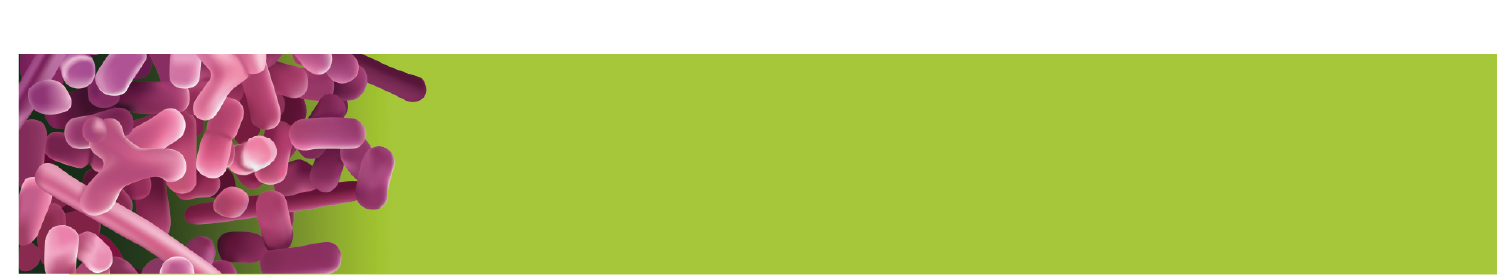
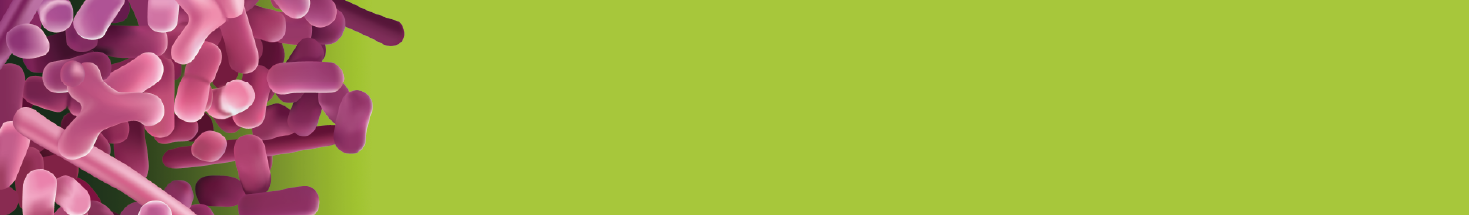
text centered on img - dobro je znati

diff --git a/css/styles.css b/css/styles.css
@@ -430,6 +430,7 @@ footer p {
 
 #pecat {
     width: 32%;
+    height: auto;
     position: absolute;
     left: 60%;
     top: 65%;
@@ -441,21 +442,47 @@ footer p {
 }
 
 #gradient-antibiotici {
-    width: 105%;
+    position: relative;
+    width: 100%;
     height: auto;
+
     /*border: 1px solid black;*/
-    margin-left: -20px;
+  /*  margin-left: -20px;*/
    /* margin-right: -10px;*/
-    margin-top: -30px;
+   /* margin-top: -30px;*/
+}
+.gtn {
+   /* position: relative;
+    border: 3px solid green;
+    height: 100px;
+    background-image: url(src="../images/gradient-antibiotici.png") ;*/
+  /*  height: 100px;
+    background: url(src="../images/gradient-antibiotici.png") center center no-repeat;*/
+/*    width: 100%;*/
+   
+
 }
 
 #dobro-je-znati {
+ 
+
     position: absolute;
-    top: -5%;
+    top: 50%;
+    left: 50%;
+    transform: translate(-50%, -50%);
     color: white;
+ /*   display: block;*/
     width: 100%;
+    height: auto;
+    padding: auto;
+    margin: auto;
     text-align: center;
-    /*font-size: 25px;*/
+   /* border: 1px solid red;*/
+    /*font-size: 5.9vw;*/
+  /*  display: block;*/
+  /*  margin: auto;*/
+    /*width: 100%;
+*/    /*font-size: 25px;*/
 }
 
 #linex-forte-packshot-kalendar{
@@ -499,10 +526,13 @@ footer p {
 }
 
 .blue {
+    border: 2px solid red;
     background-image: linear-gradient(to right, #3FBBE7 , #2E4694);
     color: white;
     font-size: 20px;
-    margin: 5px auto 15px auto;
+    padding: 15px auto 15px auto;
+    line-height: 1em;
+
 }
 
 .purple {
@@ -514,7 +544,7 @@ footer p {
 
 .yellow {
     background-image: linear-gradient(to right, #07ACAD , #D2D605);
-    height: 200px;
+    height: auto;
 }
 
 .yellow h1 {
@@ -600,7 +630,7 @@ h4 {
 }
 
 #brand-large-simplebars {
-    width: 300px;
+    width: 100%;
     height: auto;
     display: block;
     margin: 0 auto;
@@ -721,11 +751,11 @@ position: absolute;
 
 
     #sandoz-logo {
-        visibility: hidden;
+        width: 30%;
     }
 
     #linex-brand {
-        width: 60%;
+        width: 40%;
         height: auto;
         margin: auto;
     }

diff --git a/index.html b/index.html
@@ -78,8 +78,7 @@
 
         <div id="linex-description" data-simplebar-direction="vertical">
             <div class="highlights blue">
-                <h2 class="line-spacing">Mikrobiotu</h2>
-                <h4 >
+                <h4>Mikrobiotu<br>
                 čini više hiljada različitih mikroorganizama U i NA telu.</h4>
             </div>
             <div class="relative">
@@ -202,7 +201,7 @@
         </ul>
         <p>U slučaju dijareje kod dece mlađe od 6 godina, lečenje treba voditi pod lekarskim nadzorom.
         </p>
-        <div class="relative">
+    <div class="gtn relative">
         <img id="gradient-antibiotici" src="images/gradient-antibiotici.png"/>
         <div id="dobro-je-znati" ><h1>DOBRO JE ZNATI:</h1></div>
     </div>
